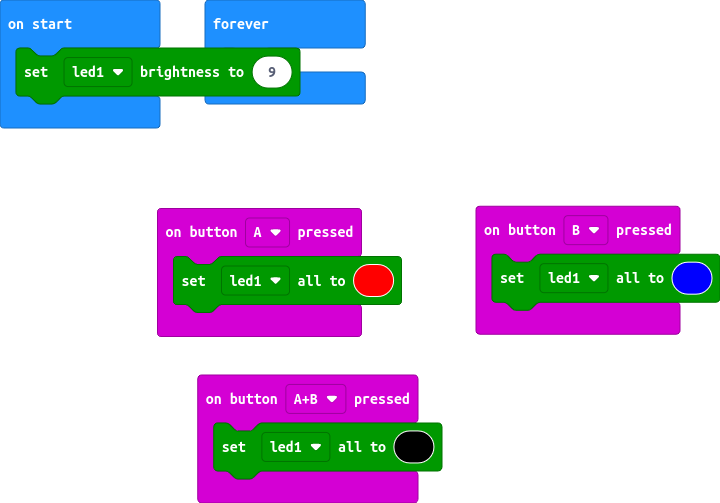
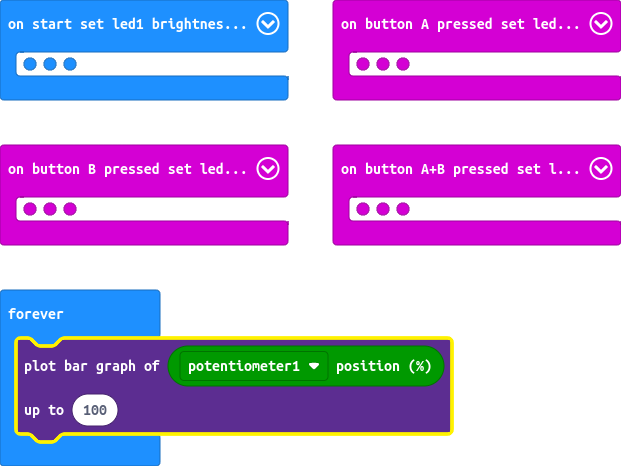
add slide pot use plot graph on MB to test

diff --git a/main.ts b/main.ts
@@ -1,13 +1,16 @@
 input.onButtonPressed(Button.A, function () {
     modules.led1.setAll(0xff0000)
 })
-input.onButtonPressed(Button.AB, function () {
-    modules.led1.setAll(0x000000)
-})
 input.onButtonPressed(Button.B, function () {
     modules.led1.setAll(0x0000ff)
 })
+input.onButtonPressed(Button.AB, function () {
+    modules.led1.setAll(0x000000)
+})
 modules.led1.setBrightness(9)
 basic.forever(function () {
-	
+    led.plotBarGraph(
+    modules.potentiometer1.position(),
+    100
+    )
 })
